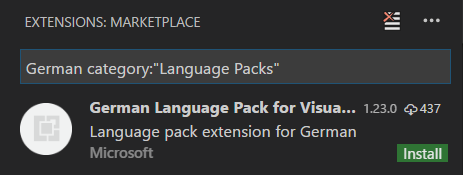
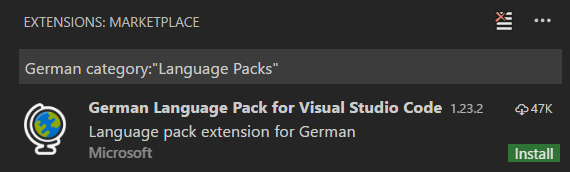
Update German Language Pack image

diff --git a/docs/editor/integrated-terminal.md b/docs/editor/integrated-terminal.md
@@ -260,7 +260,7 @@ Windows:
                                      "when": "terminalFocus" },
 ```
 
-## Why is nvm complaining about a prefix option when the Integrated Terminal is launched
+### Why is nvm complaining about a prefix option when the Integrated Terminal is launched
 
 nvm (Node Version Manager) users often see this error for the first time inside VS Code's Integrated Terminal:
 
